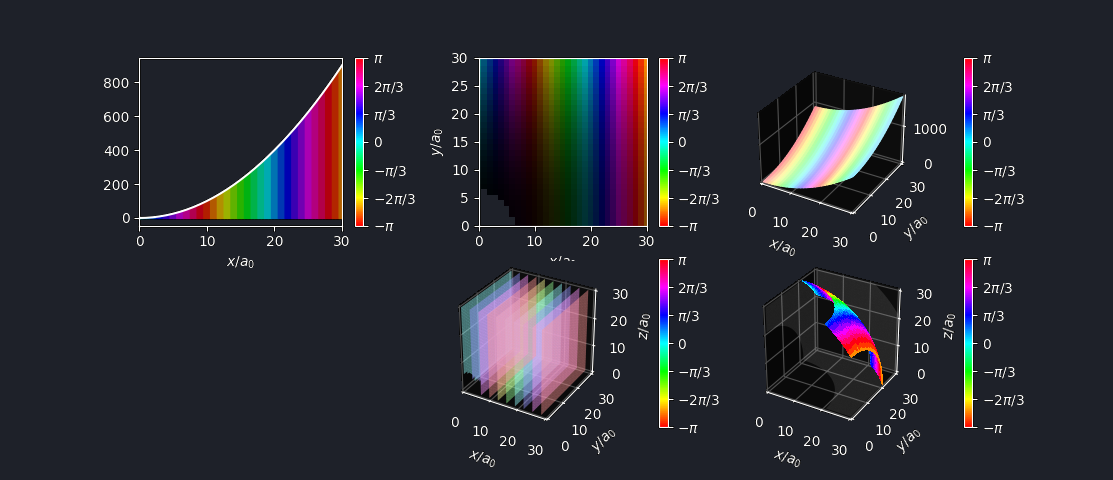
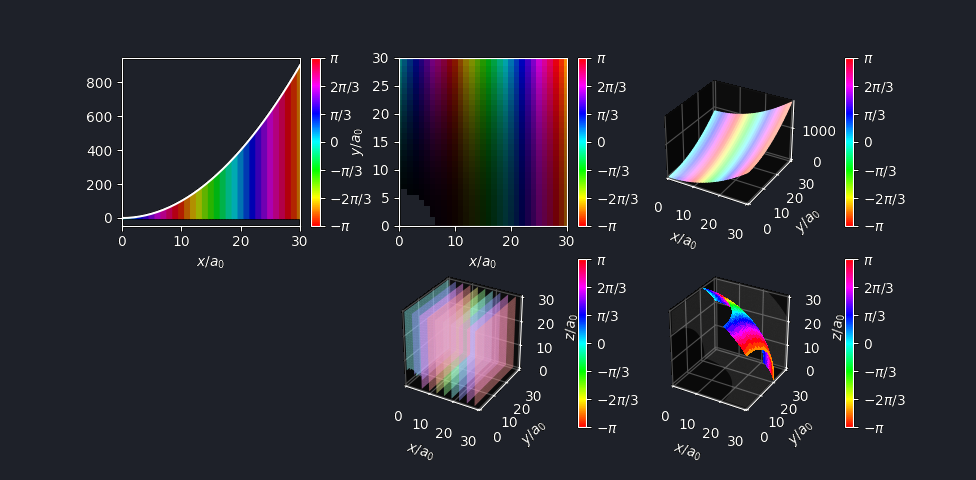
Fixed 3Dsurface complex field plot

diff --git a/development/240226vs_finishing_plot_functions.py b/development/240226vs_finishing_plot_functions.py
@@ -6,7 +6,34 @@ import matplotlib.pyplot as plt
 import numpy as np
 
 
+fig = plt.figure()
 
+ax1 = fig.add_subplot(231)
+bs = cf.BaseSystem(1,xRes=31)
+field = bs.x**2*np.exp(1j*bs.x/3)
+bs.plot_complex_field(field,ax=ax1)
+
+ax2 = fig.add_subplot(232)
+bs = cf.BaseSystem(2,xRes=31,yRes=31)
+field = (bs.x**2 + bs.y**2)*np.exp(1j*bs.x/3)
+bs.plot_complex_field(field,ax=ax2,plot_method='phase_angle')
+
+ax3 = fig.add_subplot(233, projection='3d')
+bs = cf.BaseSystem(2,xRes=31,yRes=31)
+field = (bs.x**2 + bs.y**2)*np.exp(1j*bs.x/3)
+bs.plot_complex_field(field,ax=ax3,plot_method='3Dsurface')
+
+ax5 = fig.add_subplot(235, projection='3d')
+bs = cf.BaseSystem(3,xRes=31,yRes=31,zRes=31)
+field = (bs.x**2 + bs.y**2 + bs.z**2)*np.exp(1j*bs.x/3)
+bs.plot_complex_field(field,ax=ax5,plot_method='phase_angle')
+
+ax6 = fig.add_subplot(236, projection='3d')
+bs = cf.BaseSystem(3,xRes=31,yRes=31,zRes=31)
+field = (bs.x**2 + bs.y**2 + bs.z**2)*np.exp(1j*bs.x/3)
+bs.plot_complex_field(field,ax=ax6,plot_method='phase_blob')
+
+plt.show()
 
 # fig = plt.figure()
 

diff --git a/comfit/core/base_system.py b/comfit/core/base_system.py
@@ -1506,11 +1506,9 @@ class BaseSystem:
                 if ax == None:
                     fig.clf()
                     ax = fig.add_subplot(111, projection='3d')
-
-                custom_colormap = tool_colormap_angle()
                 
                 # Get the colors from a colormap (e.g., hsv, but you can choose any other)
-                colors = plt.cm.hsv((theta + np.pi) / (2 * np.pi))  # Normalizing theta to [0, 1]
+                colors = tool_colormap_angle()((theta + np.pi) / (2 * np.pi))  # Normalizing theta to [0, 1]
 
                 surf = ax.plot_surface(X, Y, rho, facecolors=colors)
 
